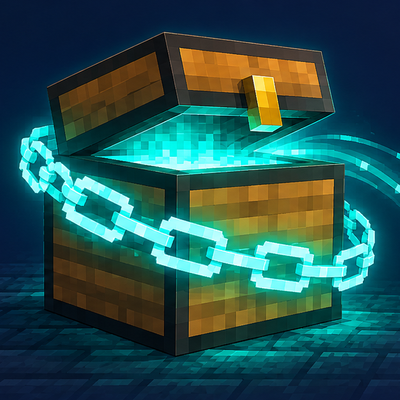
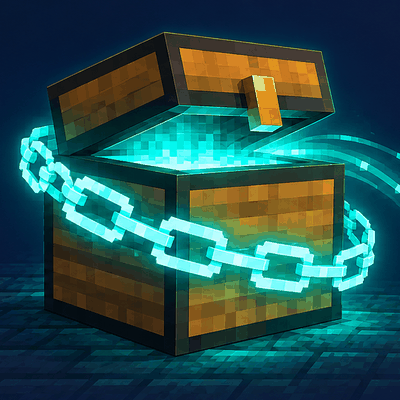
docs: ícone da loja com 256 cores (70 KB) para caber no limite de 100 KB da CurseForge

diff --git a/docs/publicacao/roteiro-gifs.md b/docs/publicacao/roteiro-gifs.md
@@ -27,7 +27,7 @@ Campos iguais nas duas; o Eliel digita login/token e clica em publicar.
 - **NeoForge:** `stashlink-neoforge-26.3-1.0.0.jar` — sem dependências; **sem** Litematica (diga isso na página).
 - **Licença:** MIT · **Ambiente:** cliente e servidor.
 - **Links:** código `https://github.com/Leoascenci0/stashlink`, problemas `.../issues`.
-- **Ícone:** `docs/img/icon.png` (400×400, 211 KB: a CurseForge pede no mínimo 400 px e o Modrinth aceita até 256 KB).
+- **Ícone:** `docs/img/icon.png` (400×400, 70 KB, PNG de 256 cores: a CurseForge pede no mínimo 400 px e no máximo 100 KB).
   É o baú com corrente recortado do banner; o mesmo desenho, em 256×256, é o ícone dentro do jogo.
 - **Galeria** (ilustrações, não capturas do jogo: a legenda diz isso para não enganar quem baixa):
 
